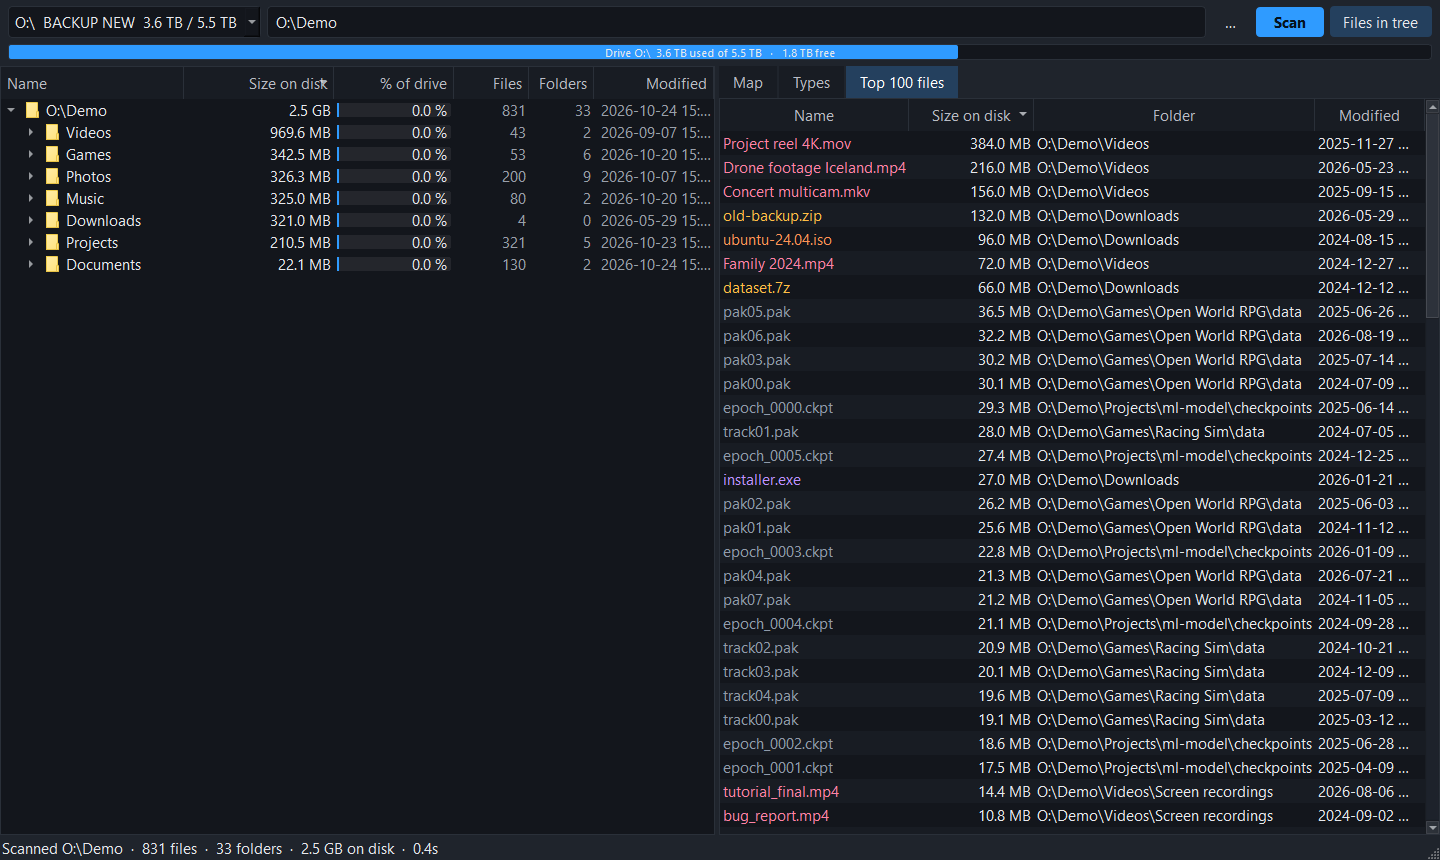
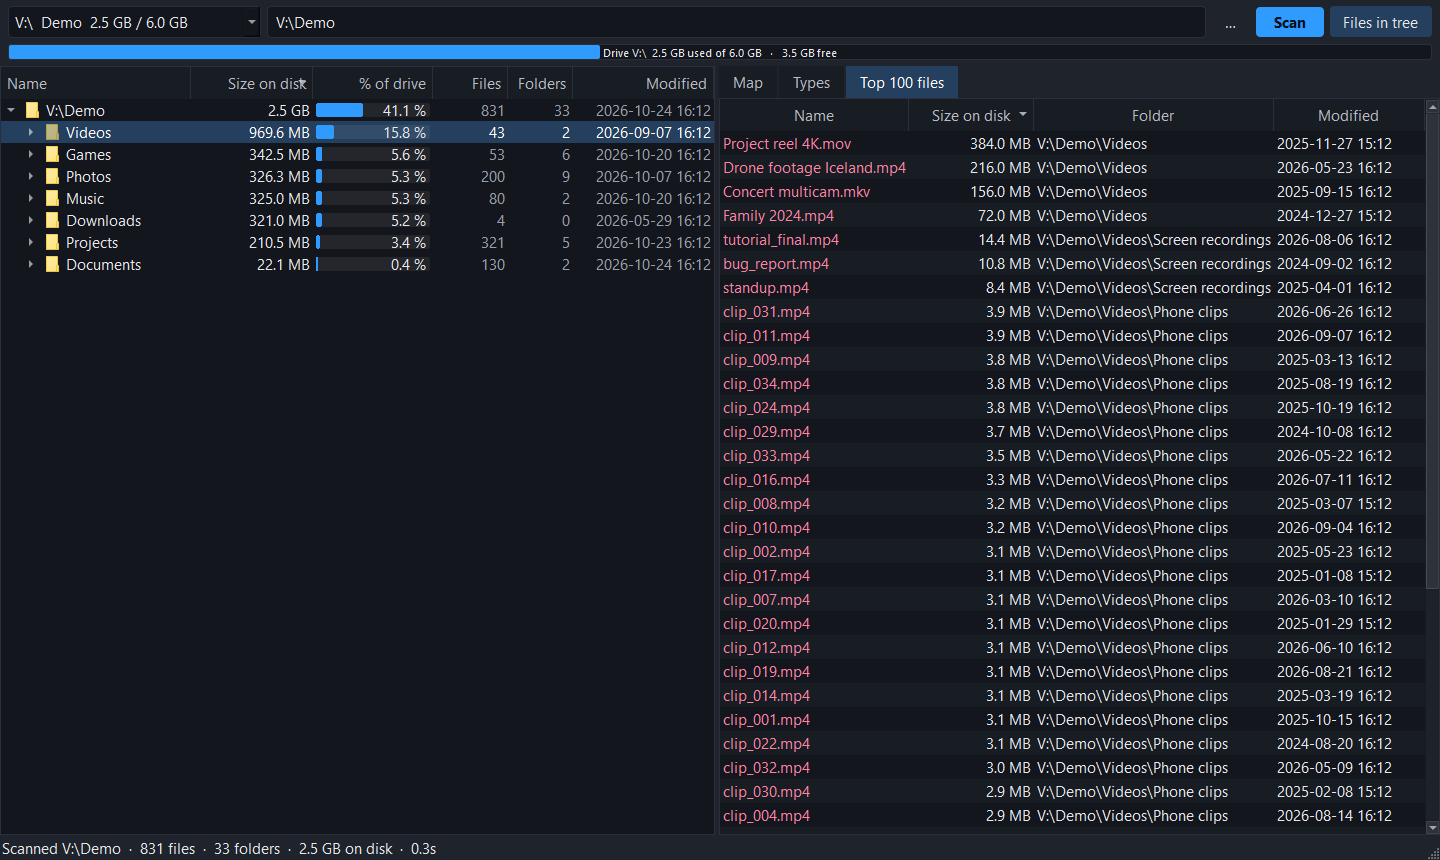
List and tree columns fit; screenshots of the real demo with the List view
- The list's headers sit over their columns (text left, numbers right) and its
  Modified column, like the tree's, is as wide as a whole date and time ("16:..." no
  longer cuts it off). A test covers both.
- tools/screenshots.py also takes the List view (of a folder with files and
  subfolders together).
- docs/*.png retaken on a mounted 6 GB drive: 831 real files, 2.5 GB on disk,
  a real "% of drive". The README shows the list next to Types and Top 100.

diff --git a/bigfoot.py b/bigfoot.py
@@ -552,8 +552,8 @@ class ListModel(QAbstractTableModel):
     def headerData(self, s, o, role=Qt.DisplayRole):
         if o == Qt.Horizontal and role == Qt.DisplayRole:
             return LIST_COLS[s]
-        if o == Qt.Horizontal and role == Qt.TextAlignmentRole and s in (L_SIZE, L_PCT):
-            return int(Qt.AlignRight | Qt.AlignVCenter)
+        if o == Qt.Horizontal and role == Qt.TextAlignmentRole:  # a header sits over its column's text
+            return int((Qt.AlignRight if s in (L_SIZE, L_PCT) else Qt.AlignLeft) | Qt.AlignVCenter)
 
     def data(self, idx, role=Qt.DisplayRole):
         if not idx.isValid() or not 0 <= idx.row() < len(self.items):
@@ -881,7 +881,8 @@ class Window(QMainWindow):
         self.tree.header().setStretchLastSection(False)
         self.tree.header().setSectionResizeMode(C_NAME, QHeaderView.Stretch)
         self.size_col = self.tree.header().fontMetrics().horizontalAdvance(COLS[C_SIZE]) + 44  # (room for the arrow)
-        for c, w in ((C_SIZE, self.size_col), (C_PCT, 120), (C_FILES, 75), (C_DIRS, 65), (C_MOD, 120)):
+        self.mod_col = self.tree.fontMetrics().horizontalAdvance(fdate(1700000000)) + 26  # (a whole date and time)
+        for c, w in ((C_SIZE, self.size_col), (C_PCT, 120), (C_FILES, 75), (C_DIRS, 65), (C_MOD, self.mod_col)):
             self.tree.setColumnWidth(c, w)
         self.tree.setItemDelegateForColumn(C_PCT, BarDelegate(self.tree))
         self.tree.setSelectionMode(QAbstractItemView.ExtendedSelection)
@@ -957,7 +958,8 @@ class Window(QMainWindow):
         self.listv.setSortingEnabled(True)
         lh.setStretchLastSection(False)
         lh.setSectionResizeMode(L_NAME, QHeaderView.Stretch)
-        for c, w in ((L_SIZE, self.size_col), (L_PCT, 100), (L_TYPE, 100), (L_MOD, 120)):
+        for c, w in ((L_SIZE, self.size_col), (L_PCT, 95), (L_TYPE, 80),
+                     (L_MOD, self.mod_col)):
             self.listv.setColumnWidth(c, w)
         self.listv.setContextMenuPolicy(Qt.CustomContextMenu)
         self.listv.customContextMenuRequested.connect(

diff --git a/tests/app/test_list_view.py b/tests/app/test_list_view.py
@@ -108,6 +108,18 @@ def test_columns_and_icons(listed):
         assert not w.list_model.data(w.list_model.index(row_of(w, n), 0), Qt.DecorationRole).isNull()
 
 
+def test_headers_sit_over_their_columns_and_a_date_fits(listed):
+    w, root = listed
+    m = w.list_model
+    right = {bf.L_SIZE, bf.L_PCT}
+    for c in range(5):
+        a = m.headerData(c, Qt.Horizontal, Qt.TextAlignmentRole)
+        assert bool(a & Qt.AlignRight) == (c in right), c  # numbers right, text left (the Name header too)
+    date = bf.fdate(1700000000)
+    assert w.listv.columnWidth(bf.L_MOD) >= w.listv.fontMetrics().horizontalAdvance(date)
+    assert w.tree.columnWidth(bf.C_MOD) >= w.tree.fontMetrics().horizontalAdvance(date)  # not cut at "16:..."
+
+
 def test_default_sort_is_size_descending_and_folders_are_not_forced_first(listed):
     w, _ = listed
     assert names(w) == ["z.bin", "mid", "a.bin", "tiny"]

diff --git a/tools/screenshots.py b/tools/screenshots.py
@@ -63,8 +63,14 @@ def main():
             raise SystemExit("the scan didn't finish")
         pump(app, 0.5)
         out = os.path.join(ROOT, "docs")
-        for tab, name in ((0, "map"), (1, "types"), (2, "top")):
+        for tab, name, as_list in ((0, "map", False), (0, "list", True), (1, "types", False), (2, "top", False)):
             w.tabs.setCurrentIndex(tab)
+            (w.view_list if as_list else w.view_boxes).setChecked(True)
+            if as_list:  # a folder with files and subfolders together
+                videos = next((d for d in w.scanner.root.dirs if d.name == "Videos"), None)
+                if videos is not None:
+                    w.select_in_tree(videos)
+                    w.set_focus(videos)
             pump(app, 0.4)
             w.grab().save(os.path.join(out, f"{name}.png"))
             print("wrote", os.path.join(out, f"{name}.png"))

diff --git a/README.md b/README.md
@@ -16,9 +16,9 @@ Point it at a drive or folder and it shows where the space went: a biggest-first
 
 ![Bigfoot treemap](docs/map.png)
 
-| Types | Top 100 files |
-|---|---|
-| ![Types](docs/types.png) | ![Top 100 files](docs/top.png) |
+| The same folder as a list | Types | Top 100 files |
+|---|---|---|
+| ![List](docs/list.png) | ![Types](docs/types.png) | ![Top 100 files](docs/top.png) |
 
 ## Download
 From the [latest release](https://github.com/AARROWdev/bigfoot/releases/latest):
